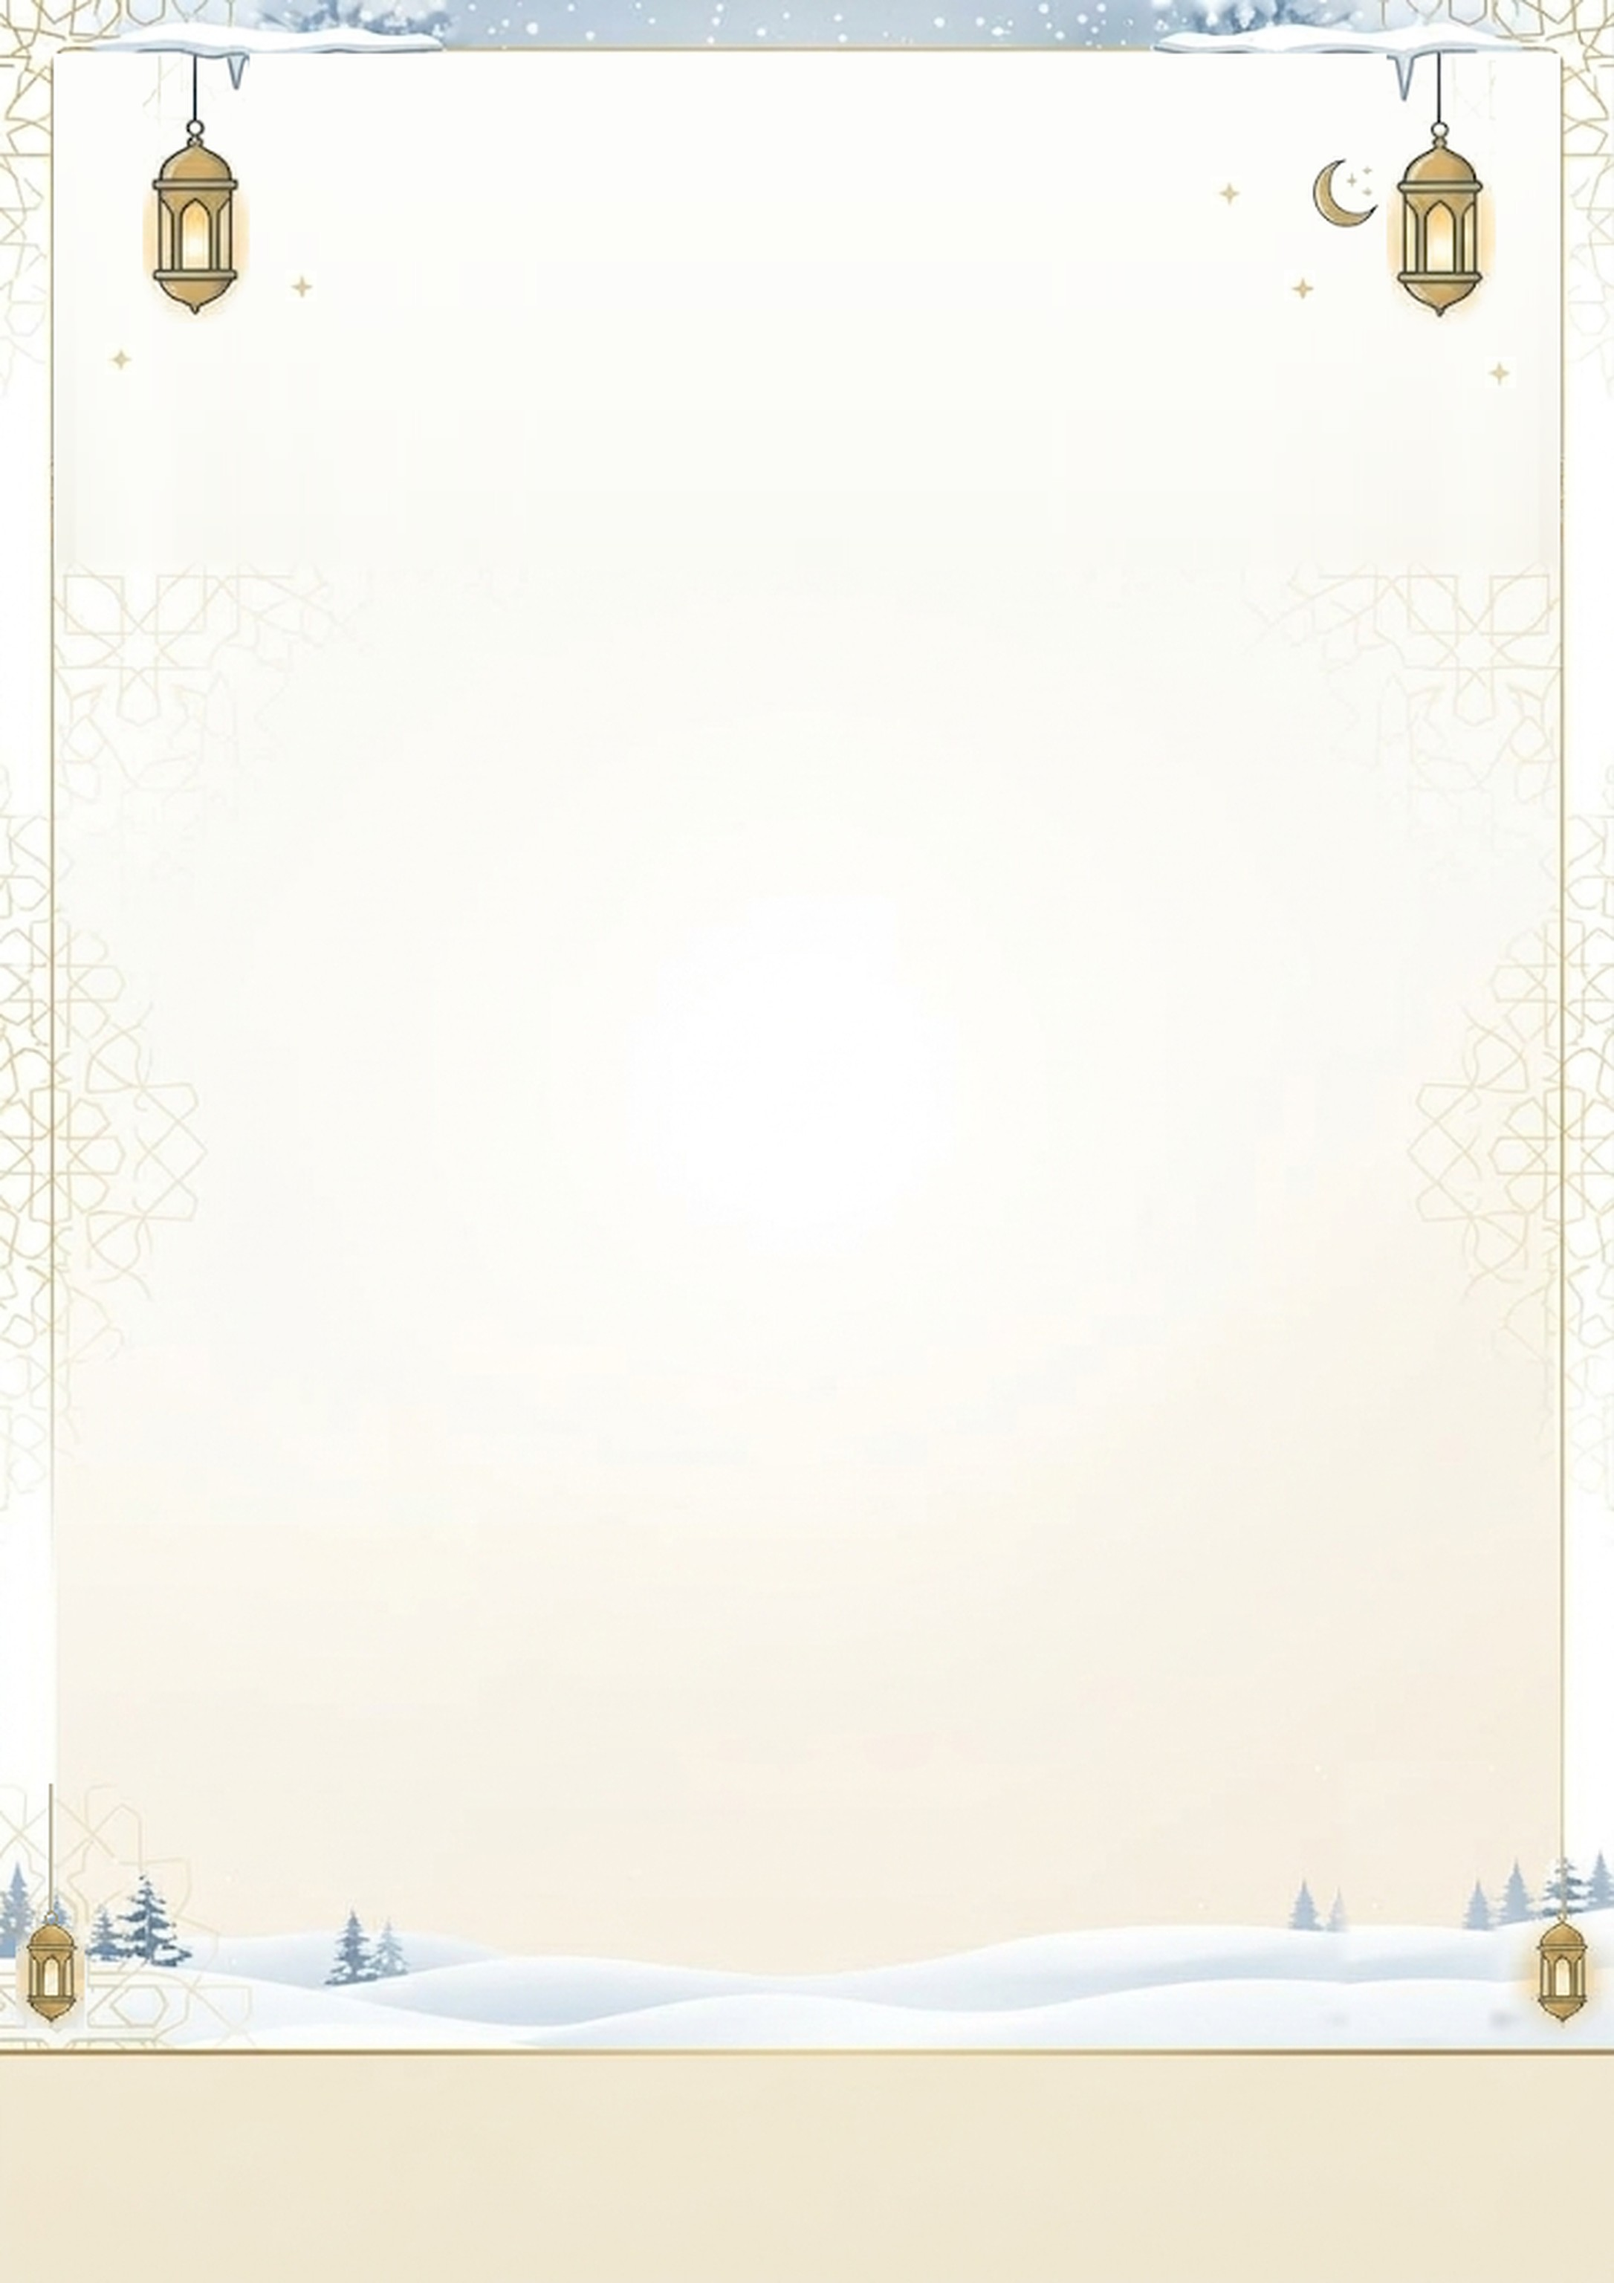
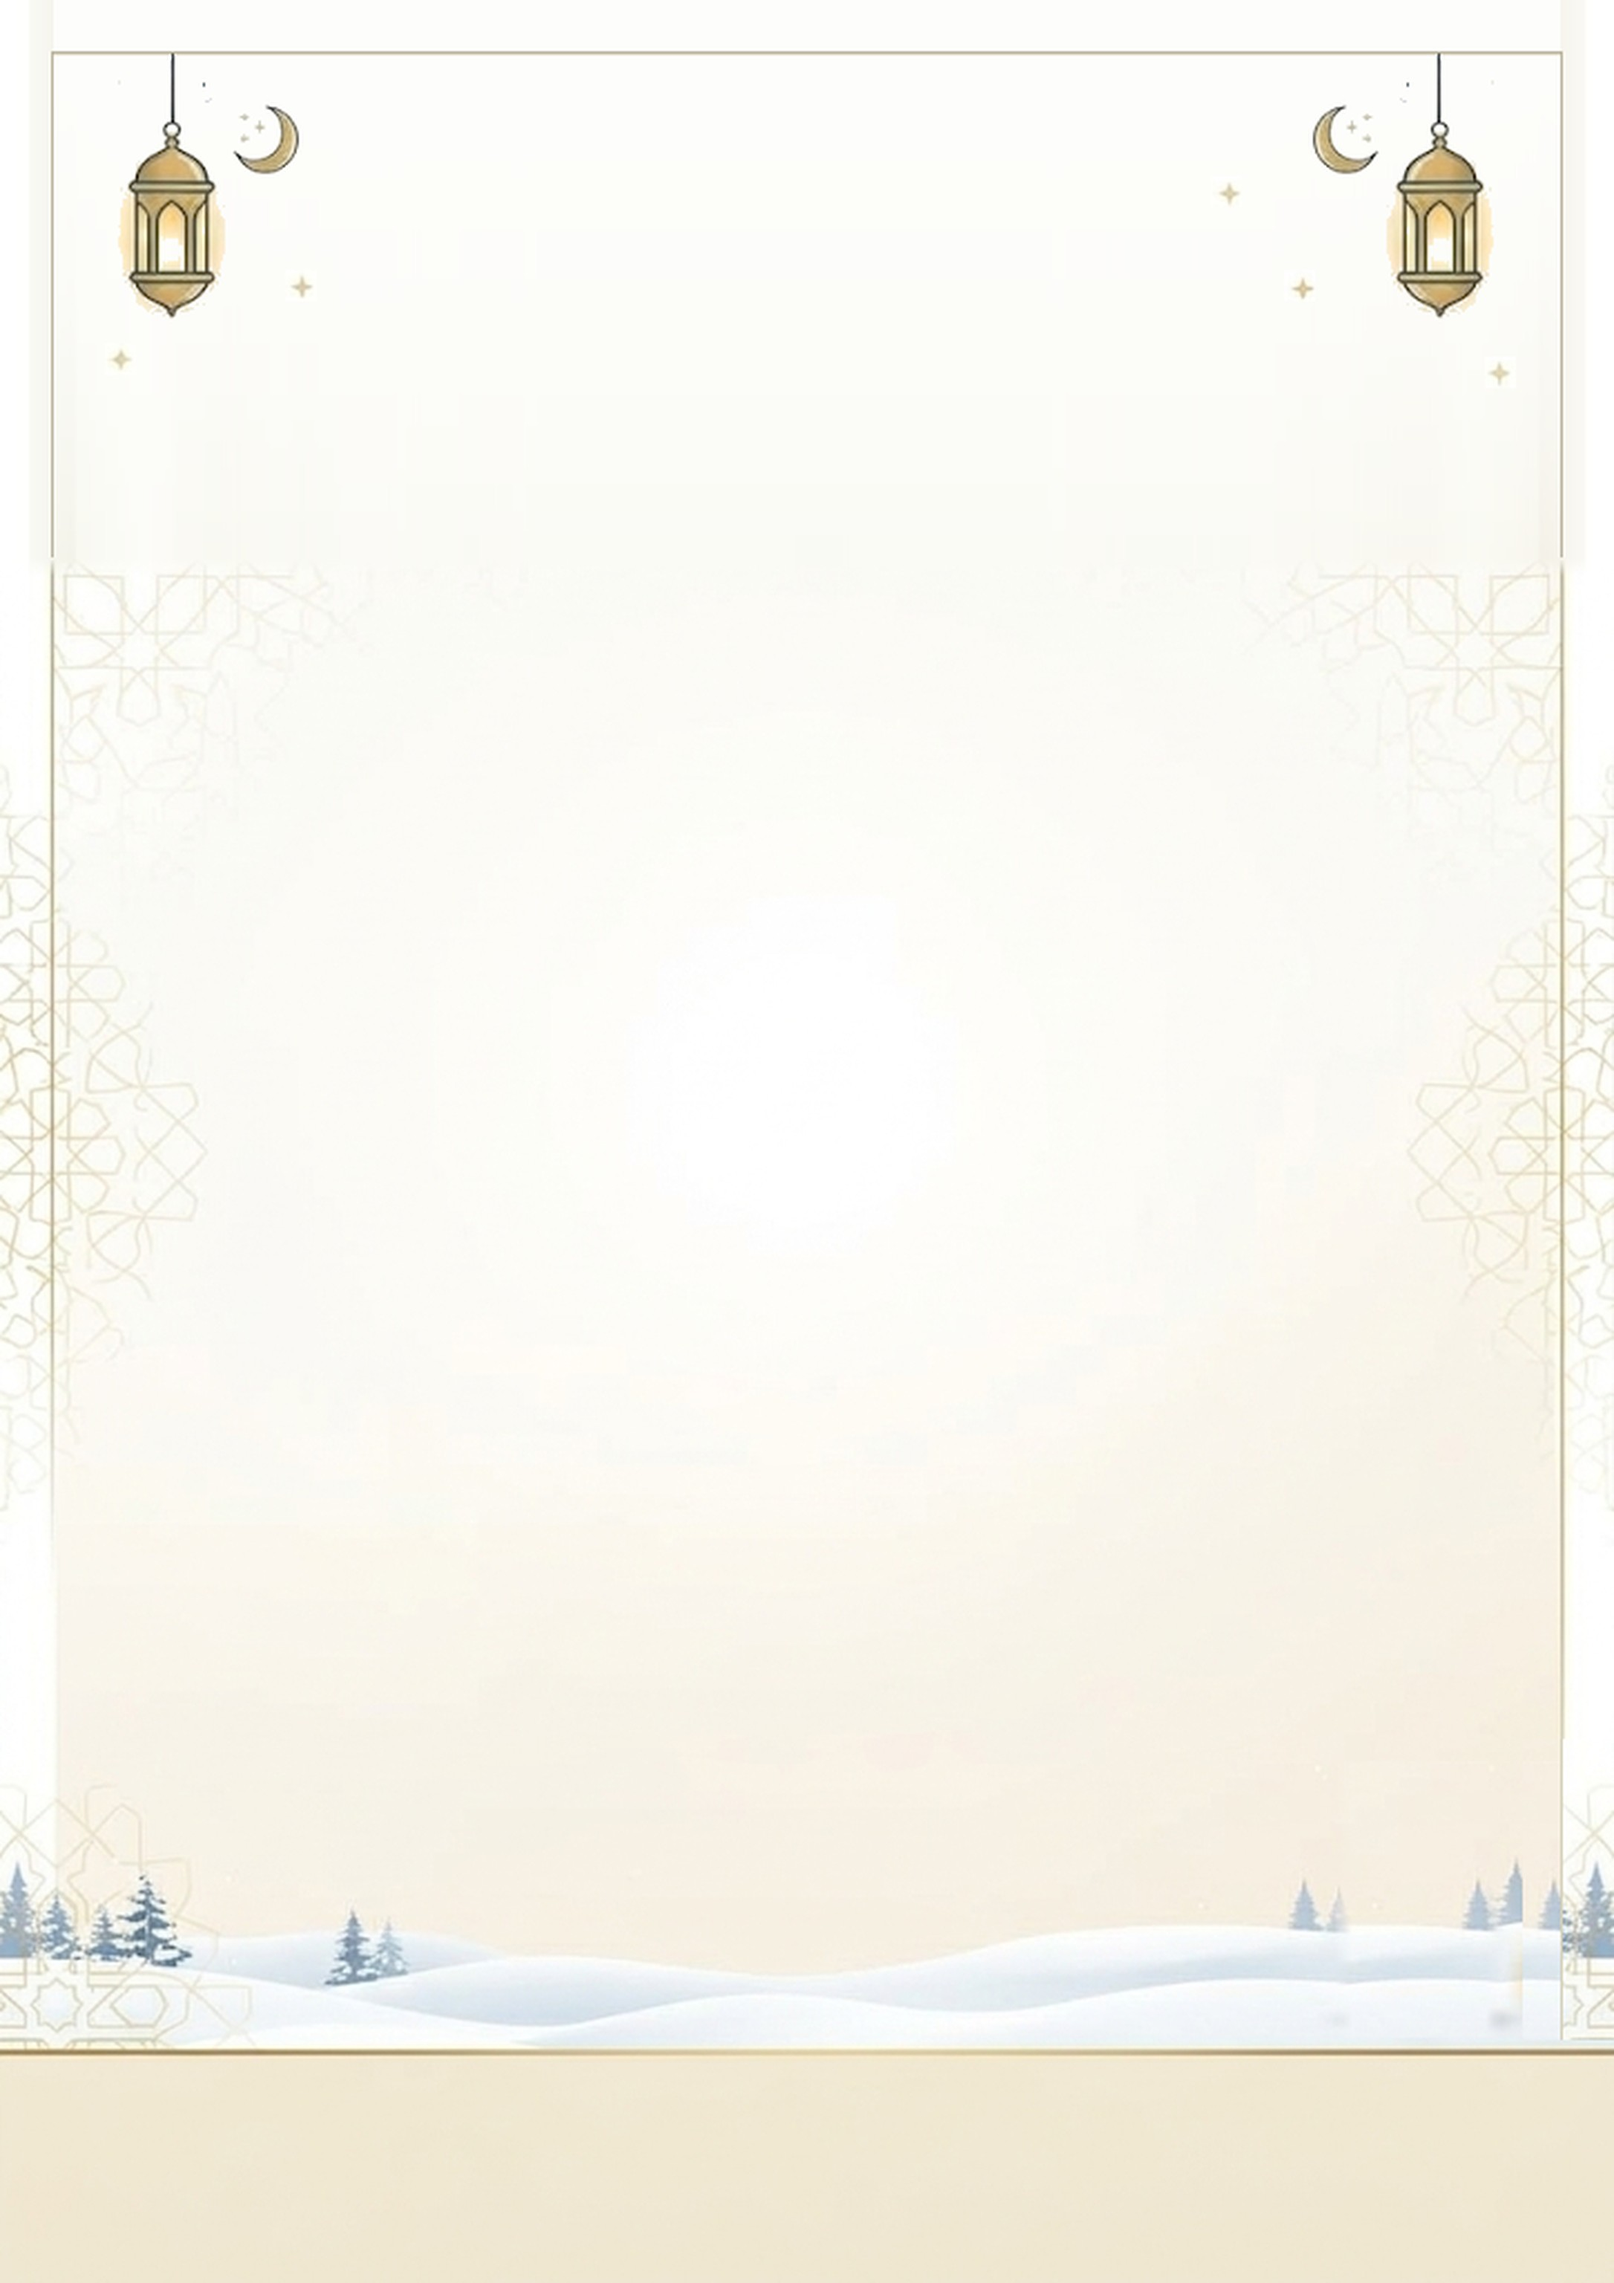
style: feuille Ramadan, fond allégé façon maquette (ciel enneigé et glaçons retirés, lanternes et croissants symétriques, bas sans lanternes)

Changed region(s): [[0.0, 0.0, 1.0, 0.1562], [0.9254, 0.7812, 1.0, 0.9062], [0.0, 0.8438, 0.0617, 0.9062]]

diff --git a/css/ramadan.css b/css/ramadan.css
@@ -70,7 +70,7 @@ body {
     grid-template-rows: 41mm 1fr auto;
     grid-template-columns: minmax(0, 1fr); /* le contenu ne peut pas élargir la page */
     position: relative;
-    /* fond d'hiver pleine page (neige, lanternes, croissants, sol enneigé, bandeau beige de l'identité) ;
+    /* fond pleine page (lanternes et croissants en haut, sol enneigé en bas, bandeau beige de l'identité) ;
        version papier : voile blanc pour économiser l'encre */
     --footer-h: 29mm; /* bandeau beige de l'identité, en bas de l'image */
     --bg-veil: rgb(255 255 255 / 0.45);
